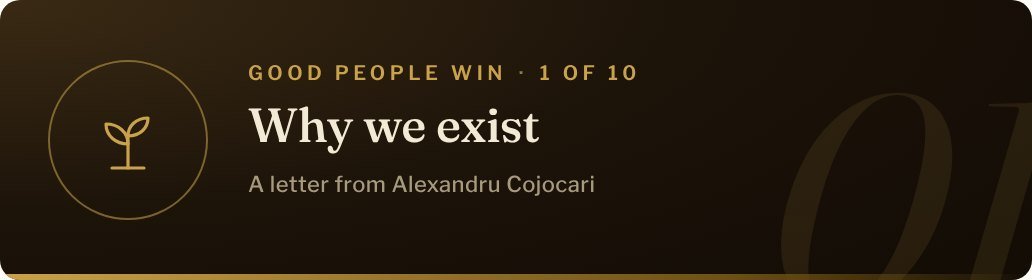
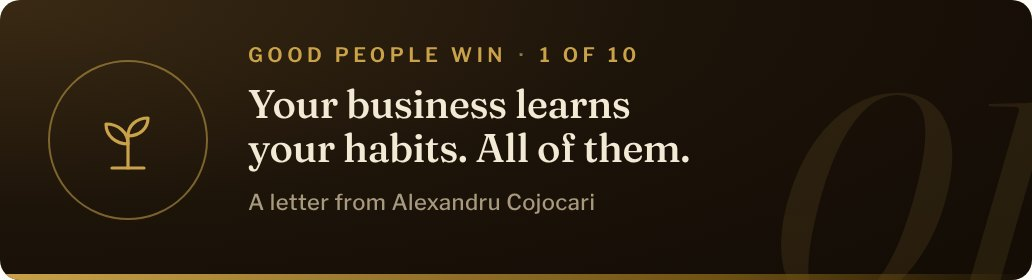
Good People Win letter 1: "Your business learns your habits. All of them."
Alexandru, 5 Nov 2026, after receiving it: "not Why we exist … your
business learns your habits. All of them. That's a much better title." The
subject and the cover change. scripts/gpw-page.mjs draws the /internal page
of the ten letters from the code (it was made by hand, with covers from a
wrong address), so each piece of his feedback is one change and two redraws
(AGENTS.md rule 21).

Claude-Session: https://claude.ai/code/session_01MLPBRo334v9cGQfn6aFjmo

Changed region(s): [[0.2171, 0.3143, 0.6822, 0.6], [0.2171, 0.6286, 0.5891, 0.7714], [0.2171, 0.1714, 0.6202, 0.2857]]

diff --git a/functions/_gpw-letters.js b/functions/_gpw-letters.js
@@ -32,7 +32,9 @@ const ES = 'https://exploraself.com';
 
 export const GPW_LETTERS = [
   {
-    n: 1, title: 'Why we exist', good: 2,
+    // The title is Alexandru's (5 Nov 2026, after receiving it): "your business learns your
+    // habits. All of them. That's a much better title."
+    n: 1, title: 'Your business learns your habits. All of them.', good: 2,
     hello: 'Thank you for leaving your name. For the next 18 days I’ll send you **ten short letters, one tool in each.**',
     hurt: 'You work hard. You care. And some weeks, the results are not there.\n**What is your business teaching you about yourself?**',
     story: { head: 'My story', paras: [

diff --git a/AGENTS.md b/AGENTS.md
@@ -398,4 +398,9 @@ Each letter has its own unsubscribe (?g=, these letters only) and a 1 × 1
 picture that marks it opened; /mentor → Good People Win shows who is on
 which letter and what they opened (a sign, not a count). GPW_MODE "off" in
 the Cloudflare settings stops joining and sending. Mailchimp tag (accounts):
-linktolead-letters-good-people-win. A letter changed: the email map (rule 14).
+linktolead-letters-good-people-win. A letter changed (Alexandru sends
+feedback on each one as it arrives): change the words in
+functions/_gpw-letters.js (a new title: redraw its cover too), then run
+`node scripts/gpw-page.mjs <out.html>` and the email map (rule 14), and put
+both pages in the exploraself repo's internal folder (good-people-win/ and
+email-map/).
